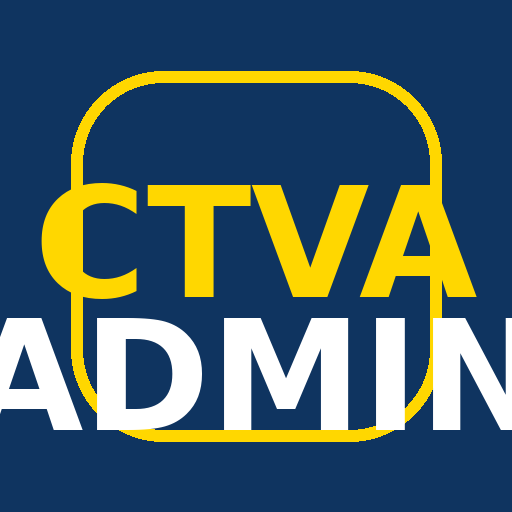
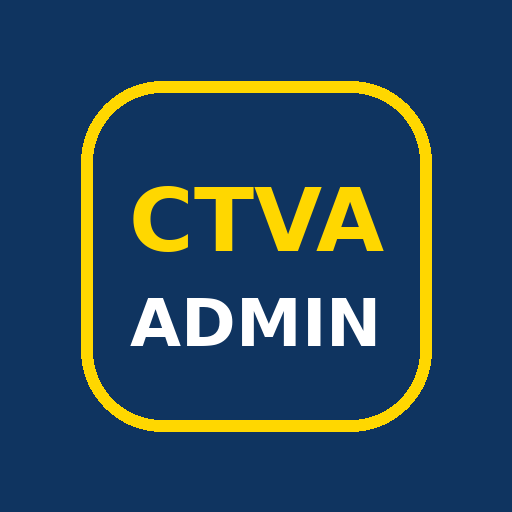
Add files via upload

Changed region(s): [[0.0, 0.125, 1.0, 0.875]]

diff --git a/index.html b/index.html
@@ -5,6 +5,12 @@
 <meta name="robots" content="noindex, nofollow">
 <title>CTVA 2026 — Admin | Cadet Media Ghana</title>
 <meta name="viewport" content="width=device-width, initial-scale=1.0">
+<link rel="manifest" href="manifest.webmanifest">
+<meta name="theme-color" content="#0f3460">
+<meta name="apple-mobile-web-app-capable" content="yes">
+<meta name="apple-mobile-web-app-title" content="CTVA Admin">
+<link rel="apple-touch-icon" href="icon-192.png">
+<link rel="icon" type="image/png" href="icon-192.png">
 <link href="https://fonts.googleapis.com/css2?family=Barlow+Condensed:wght@600;700;800&family=Barlow:wght@400;500;600&display=swap" rel="stylesheet">
 <style>
 *{box-sizing:border-box;margin:0;padding:0;}
@@ -88,6 +94,13 @@ table.ex-table{width:100%;border-collapse:collapse;font-size:13.5px;}
 .ex-table td{padding:8px;border-bottom:1px solid rgba(255,255,255,0.08);vertical-align:middle;}
 .ex-table img,.ex-table .ex-ph{width:46px;height:56px;object-fit:cover;border-radius:6px;background:rgba(255,255,255,0.08);display:flex;align-items:center;justify-content:center;font-weight:700;}
 .ex-table img{display:block;}
+.alert-bar{display:flex;gap:10px;align-items:center;flex-wrap:wrap;margin:16px 0 0;}
+.alert-bar .ghost{background:rgba(255,255,255,0.1);color:#fff;}
+#alertState{font-size:12.5px;opacity:.75;}
+.alert-info{margin-top:12px;background:rgba(255,215,0,0.07);border:1px solid rgba(255,215,0,0.3);border-radius:12px;padding:14px 16px;font-size:13.5px;line-height:1.7;}
+.alert-info ol{margin:6px 0 10px 20px;}
+.alert-info .topic{display:inline-block;font-family:monospace;font-size:15px;background:rgba(0,0,0,0.35);border-radius:8px;padding:6px 10px;margin:4px 0;color:#FFD700;word-break:break-all;}
+#newToast{position:fixed;left:50%;top:14px;transform:translateX(-50%);z-index:99;background:linear-gradient(45deg,#FFD700,#e6a800);color:#0f3460;font-weight:800;padding:12px 20px;border-radius:30px;box-shadow:0 8px 28px rgba(0,0,0,.45);cursor:pointer;font-family:'Barlow Condensed',sans-serif;letter-spacing:.5px;font-size:15px;display:none;max-width:92vw;text-align:center;}
 @media print{
   body{background:#fff !important;color:#000 !important;}
   body *{visibility:hidden;}
@@ -101,6 +114,7 @@ table.ex-table{width:100%;border-collapse:collapse;font-size:13.5px;}
 </head>
 <body>
 
+<div id="newToast"></div>
 <div class="wrap">
   <div id="loginView">
     <div class="lock">🔐</div>
@@ -114,6 +128,22 @@ table.ex-table{width:100%;border-collapse:collapse;font-size:13.5px;}
   <div id="dashView">
     <h1>CTVA 2026 Admin</h1>
     <p class="sub">Nominee approval, Nalo voting results &amp; judges' scores</p>
+
+    <div class="alert-bar">
+      <button class="ex-btn" id="alertBtn">🔔 Enable alerts</button>
+      <button class="ex-btn ghost" id="alertInfoBtn">📲 Alerts when app is closed</button>
+      <span id="alertState"></span>
+    </div>
+    <div class="alert-info" id="alertInfo" hidden>
+      <b>Phone / laptop alerts even when this app is closed</b> (free, uses the ntfy app):
+      <ol>
+        <li>Install the free <b>ntfy</b> app (Android / iPhone), or open <b>ntfy.sh</b> in your laptop browser.</li>
+        <li>Tap <b>Subscribe to topic</b> and enter this private topic name:<br><span class="topic" id="alertTopic">loading…</span></li>
+        <li>Allow notifications. Every new registration will then ring your phone.</li>
+      </ol>
+      <button class="ex-btn" id="alertTest">Send a test alert</button> <span id="alertTestMsg" style="font-size:12.5px;opacity:.8;"></span>
+      <div style="font-size:12px;opacity:.65;margin-top:8px;">Alerts only say that a registration is waiting. They never contain names or photos. Keep the topic name private: anyone who knows it can read the alerts.</div>
+    </div>
 
     <div class="tabs">
       <button class="tab-btn active" data-tab="pending">Pending</button>
@@ -245,7 +275,131 @@ table.ex-table{width:100%;border-collapse:collapse;font-size:13.5px;}
     render();
     renderLogGroups();
     renderJudgeGroups();
+    processList(allNominees);
   }
+
+  // ───────── Alerts for new registrations ─────────
+  // Checks the sheet every 30 s (and when you return to the app). Anything pending that you have not seen
+  // before rings: a notification (if allowed), a beep, a number on the app icon and a banner.
+  const SEEN_KEY = 'ctvaSeenRefs', ALERT_KEY = 'ctvaAlertsOn';
+  let seen = new Set(), firstRun = true, flashTimer = null, baseTitle = document.title;
+  try { const raw = localStorage.getItem(SEEN_KEY); if (raw) { seen = new Set(JSON.parse(raw)); firstRun = false; } } catch (e) {}
+  const saveSeen = () => { try { localStorage.setItem(SEEN_KEY, JSON.stringify(Array.from(seen))); } catch (e) {} };
+
+  function pendingCount(){ return allNominees.filter(n => n.status === 'pending').length; }
+  function updateBadge(){
+    const n = pendingCount();
+    const tab = document.querySelector('.tab-btn[data-tab="pending"]');
+    if (tab) tab.textContent = n ? 'Pending (' + n + ')' : 'Pending';
+    if (!flashTimer) document.title = (n ? '(' + n + ') ' : '') + baseTitle;
+    try { if (navigator.setAppBadge) { n ? navigator.setAppBadge(n) : navigator.clearAppBadge(); } } catch (e) {}
+  }
+  function beep(){
+    try {
+      const C = window.AudioContext || window.webkitAudioContext; if (!C) return;
+      const ctx = new C(), t = ctx.currentTime;
+      [880, 1175].forEach((f, i) => { const o = ctx.createOscillator(), g = ctx.createGain(); o.frequency.value = f; o.connect(g); g.connect(ctx.destination);
+        g.gain.setValueAtTime(0.0001, t + i * 0.18); g.gain.exponentialRampToValueAtTime(0.25, t + i * 0.18 + 0.02); g.gain.exponentialRampToValueAtTime(0.0001, t + i * 0.18 + 0.16);
+        o.start(t + i * 0.18); o.stop(t + i * 0.18 + 0.18); });
+    } catch (e) {}
+  }
+  function showToast(text){
+    const t = document.getElementById('newToast'); t.textContent = text; t.style.display = 'block';
+    clearTimeout(showToast.tm); showToast.tm = setTimeout(() => { t.style.display = 'none'; }, 12000);
+  }
+  document.getElementById('newToast').addEventListener('click', () => {
+    document.getElementById('newToast').style.display = 'none';
+    const b = document.querySelector('.tab-btn[data-tab="pending"]'); if (b) b.click();
+  });
+  async function systemNotify(title, body){
+    if (!('Notification' in window) || Notification.permission !== 'granted') return;
+    const opts = { body, icon: 'icon-192.png', badge: 'icon-192.png', tag: 'ctva-new', renotify: true, vibrate: [200, 100, 200], data: { url: './' } };
+    try {
+      const reg = navigator.serviceWorker && await navigator.serviceWorker.getRegistration();
+      if (reg) { await reg.showNotification(title, opts); return; }
+    } catch (e) {}
+    try { new Notification(title, opts); } catch (e) {}
+  }
+  function notifyNew(fresh){
+    const one = fresh.length === 1 ? fresh[0] : null;
+    const title = one ? 'New registration' : fresh.length + ' new registrations';
+    const body = one ? (one.name + ' — ' + one.category + (one.school ? ' (' + one.school + ')' : '')) : 'Waiting for your approval';
+    showToast('🔔 ' + title + ': ' + body + '  — tap to review');
+    if (localStorage.getItem(ALERT_KEY) !== 'off') { beep(); systemNotify(title, body); }
+    if (document.hidden && !flashTimer) {
+      let on = false;
+      flashTimer = setInterval(() => { on = !on; document.title = on ? '🔔 ' + title : baseTitle; if (!document.hidden) { clearInterval(flashTimer); flashTimer = null; updateBadge(); } }, 1000);
+    }
+  }
+  // Compare a fresh list with what has been seen; alert on anything new and pending.
+  function processList(list){
+    const fresh = list.filter(n => n.status === 'pending' && !seen.has(n.ref));
+    list.forEach(n => seen.add(n.ref));
+    saveSeen();
+    if (firstRun) { firstRun = false; }          // very first visit on this device: just remember, don't ring
+    else if (fresh.length) notifyNew(fresh);
+    updateBadge();
+  }
+  async function softRefresh(){
+    if (dashView.style.display !== 'block') return;
+    try {
+      const data = await api('getAllAdmin');
+      if (data.status !== 'ok') return;
+      allNominees = data.nominees || [];
+      unifySchools();
+      processList(allNominees);
+      // Redraw the lists only when that cannot disturb what you are typing.
+      const el = document.activeElement;
+      if (el && /^(INPUT|TEXTAREA|SELECT)$/.test(el.tagName)) return;
+      if (currentTab === 'logvotes' || currentTab === 'judgescores' || currentTab === 'ticker') return;
+      if (currentTab === 'export') renderExport(); else render();
+    } catch (e) {}
+  }
+  setInterval(softRefresh, 30000);
+  document.addEventListener('visibilitychange', () => { if (!document.hidden) softRefresh(); });
+  window.addEventListener('focus', softRefresh);
+
+  // ── Alert buttons ──
+  const alertBtn = document.getElementById('alertBtn'), alertState = document.getElementById('alertState');
+  function paintAlertState(){
+    if (!('Notification' in window)) { alertState.textContent = 'This browser cannot show notifications.'; alertBtn.style.display = 'none'; return; }
+    const p = Notification.permission, off = localStorage.getItem(ALERT_KEY) === 'off';
+    if (p === 'granted' && !off) { alertBtn.textContent = '🔔 Alerts ON — tap to mute'; alertState.textContent = 'You will be alerted when a new registration arrives (while this app is open).'; }
+    else if (p === 'granted' && off) { alertBtn.textContent = '🔕 Alerts muted — tap to turn on'; alertState.textContent = ''; }
+    else if (p === 'denied') { alertBtn.textContent = '🔕 Alerts blocked'; alertState.textContent = 'Notifications are blocked. Allow them for this site in your browser/phone settings, then reload.'; }
+    else { alertBtn.textContent = '🔔 Enable alerts'; alertState.textContent = ''; }
+  }
+  alertBtn.addEventListener('click', async () => {
+    if (!('Notification' in window)) return;
+    if (Notification.permission === 'granted') {
+      const off = localStorage.getItem(ALERT_KEY) === 'off';
+      try { localStorage.setItem(ALERT_KEY, off ? 'on' : 'off'); } catch (e) {}
+      if (off) { beep(); systemNotify('Alerts are on', 'You will be told about every new registration.'); }
+    } else if (Notification.permission === 'default') {
+      try { localStorage.setItem(ALERT_KEY, 'on'); } catch (e) {}
+      const r = await Notification.requestPermission();
+      if (r === 'granted') { beep(); systemNotify('Alerts are on', 'You will be told about every new registration.'); }
+    }
+    paintAlertState();
+  });
+  paintAlertState();
+
+  // Free phone push (ntfy) that works even when the app is closed.
+  let alertTopicLoaded = false;
+  document.getElementById('alertInfoBtn').addEventListener('click', async () => {
+    const box = document.getElementById('alertInfo'); box.hidden = !box.hidden;
+    if (box.hidden || alertTopicLoaded) return;
+    try {
+      const d = await api('getAlertInfo');
+      document.getElementById('alertTopic').textContent = d.status === 'ok' ? d.topic : (d.message || 'Update Code.gs in Apps Script first (see notes).');
+      alertTopicLoaded = d.status === 'ok';
+    } catch (e) { document.getElementById('alertTopic').textContent = 'Could not load — check your connection.'; }
+  });
+  document.getElementById('alertTest').addEventListener('click', async () => {
+    const m = document.getElementById('alertTestMsg'); m.textContent = 'Sending…';
+    try { const d = await api('testAlert'); m.textContent = d.status === 'ok' ? 'Sent — check your phone.' : (d.message || 'Failed.'); }
+    catch (e) { m.textContent = 'Network error.'; }
+  });
 
   document.querySelectorAll('.tab-btn').forEach(btn => {
     btn.addEventListener('click', () => {
@@ -689,6 +843,9 @@ table.ex-table{width:100%;border-collapse:collapse;font-size:13.5px;}
       btn.textContent = 'Save';
     }
   }
+
+  // Installable app + notification support.
+  if ('serviceWorker' in navigator) { window.addEventListener('load', () => { navigator.serviceWorker.register('sw.js').catch(() => {}); }); }
 </script>
 </body>
 </html>

diff --git a/sw.js b/sw.js
@@ -1,6 +1,12 @@
-const C='ctva-admin-v1',FILES=['./','./index.html','./manifest.webmanifest','./icon-192.png','./icon-512.png'];
+const C='ctva-admin-v2',FILES=['./','./index.html','./manifest.webmanifest','./icon-192.png','./icon-512.png'];
 self.addEventListener('install',e=>{e.waitUntil(caches.open(C).then(c=>c.addAll(FILES)).then(()=>self.skipWaiting()));});
 self.addEventListener('activate',e=>{e.waitUntil(caches.keys().then(k=>Promise.all(k.filter(x=>x!==C).map(x=>caches.delete(x)))).then(()=>self.clients.claim()));});
 // Only same-origin GET page files are cached. Backend (Apps Script) calls are never touched.
 self.addEventListener('fetch',e=>{const r=e.request,u=new URL(r.url);if(r.method!=='GET'||u.origin!==location.origin)return;
 e.respondWith(fetch(r).then(res=>{const cp=res.clone();caches.open(C).then(c=>c.put(r,cp));return res;}).catch(()=>caches.match(r).then(m=>m||caches.match('./index.html'))));});
+// Tapping a notification opens (or focuses) the admin app.
+self.addEventListener('notificationclick',e=>{e.notification.close();
+e.waitUntil(self.clients.matchAll({type:'window',includeUncontrolled:true}).then(l=>{for(const c of l){if('focus' in c)return c.focus();}return self.clients.openWindow('./');}));});
+// Ready for real server push, should it be added later.
+self.addEventListener('push',e=>{let d={};try{d=e.data.json();}catch(x){d={body:e.data?e.data.text():''};}
+e.waitUntil(self.registration.showNotification(d.title||'CTVA Admin',{body:d.body||'',icon:'icon-192.png',badge:'icon-192.png',tag:'ctva-push',renotify:true}));});
